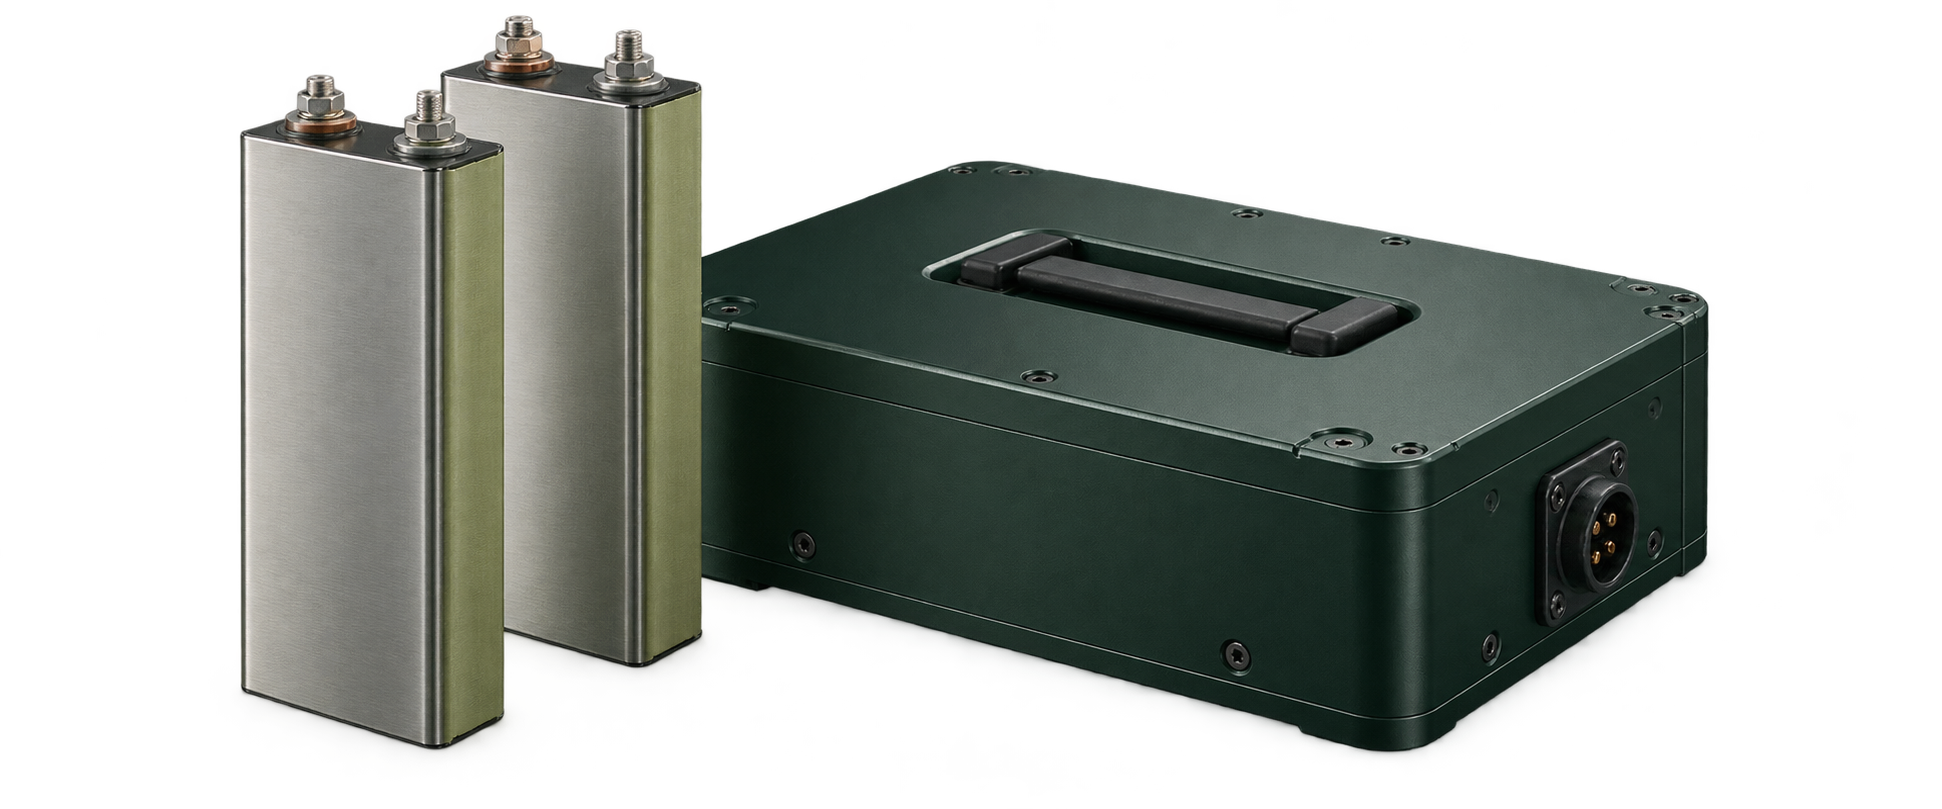
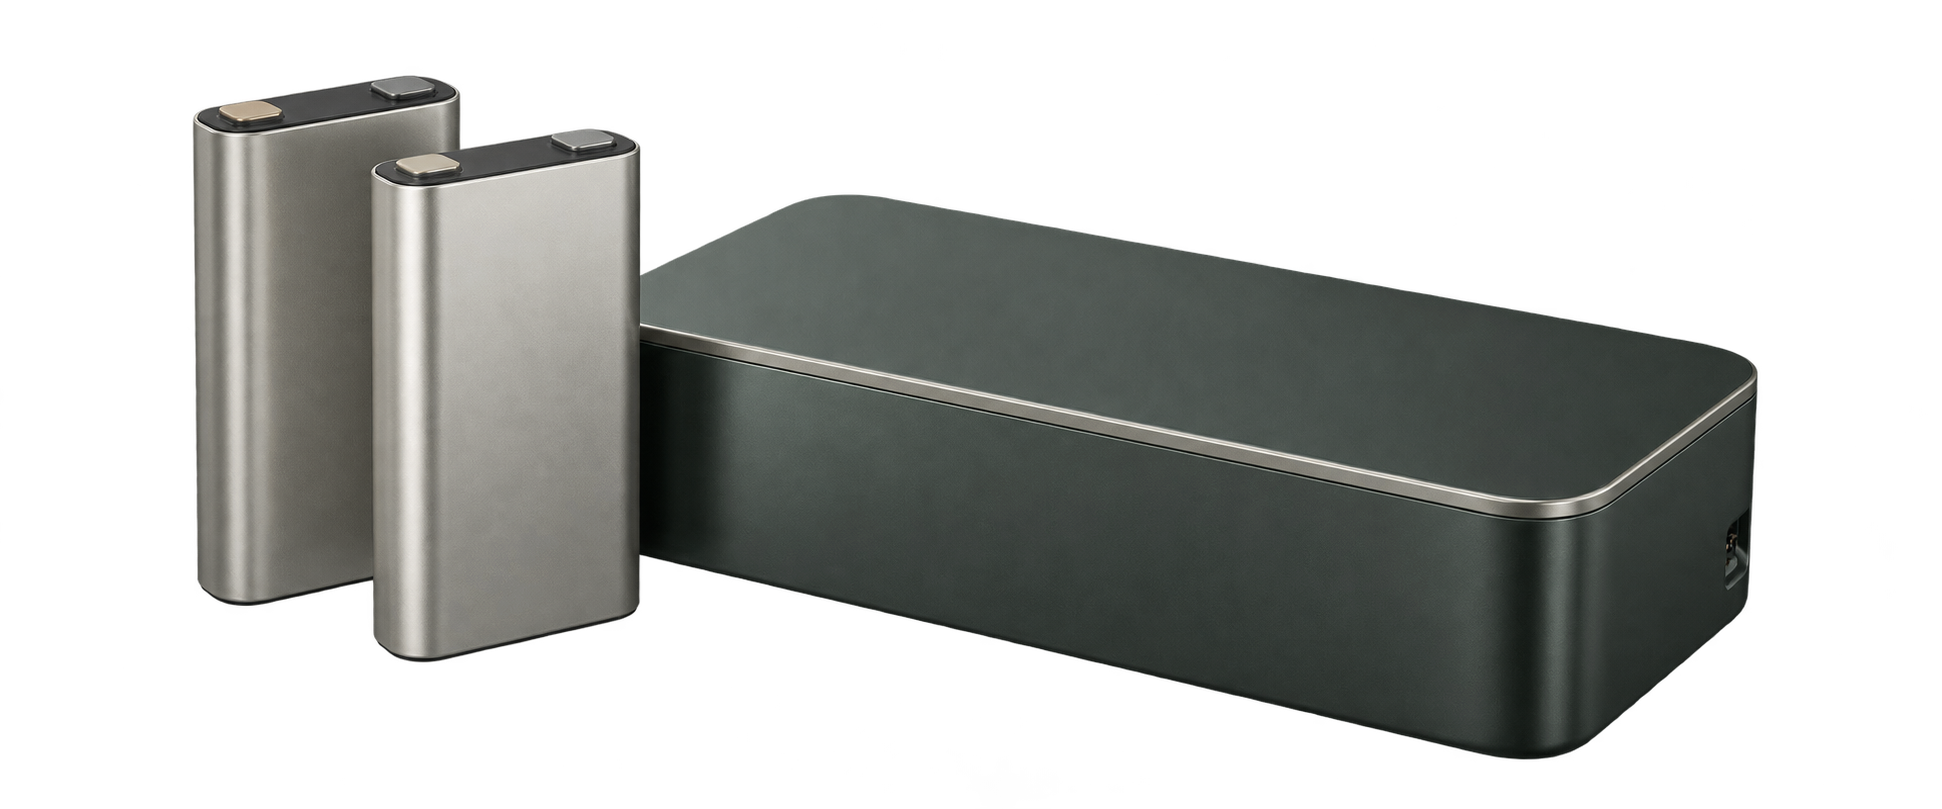
Simplify battery product styling and reuse installed CI Chrome

diff --git a/src/CellPackArtwork.tsx b/src/CellPackArtwork.tsx
@@ -1,4 +1,4 @@
 /** Concept product render; not a photograph of a specific customer model. */
 export default function CellPackArtwork(){
- return <img className="cell-pack-art" src={`${import.meta.env.BASE_URL}brand/cell-pack-studio.png`} alt="배터리 셀과 완성된 8셀 팩 제품의 개념 이미지" width="1920" height="800" decoding="async" fetchPriority="high"/>;
+ return <img className="cell-pack-art" src={`${import.meta.env.BASE_URL}brand/cell-pack-studio.png?v=2`} alt="배터리 셀과 완성된 8셀 팩 제품의 개념 이미지" width="1920" height="800" decoding="async" fetchPriority="high"/>;
 }
